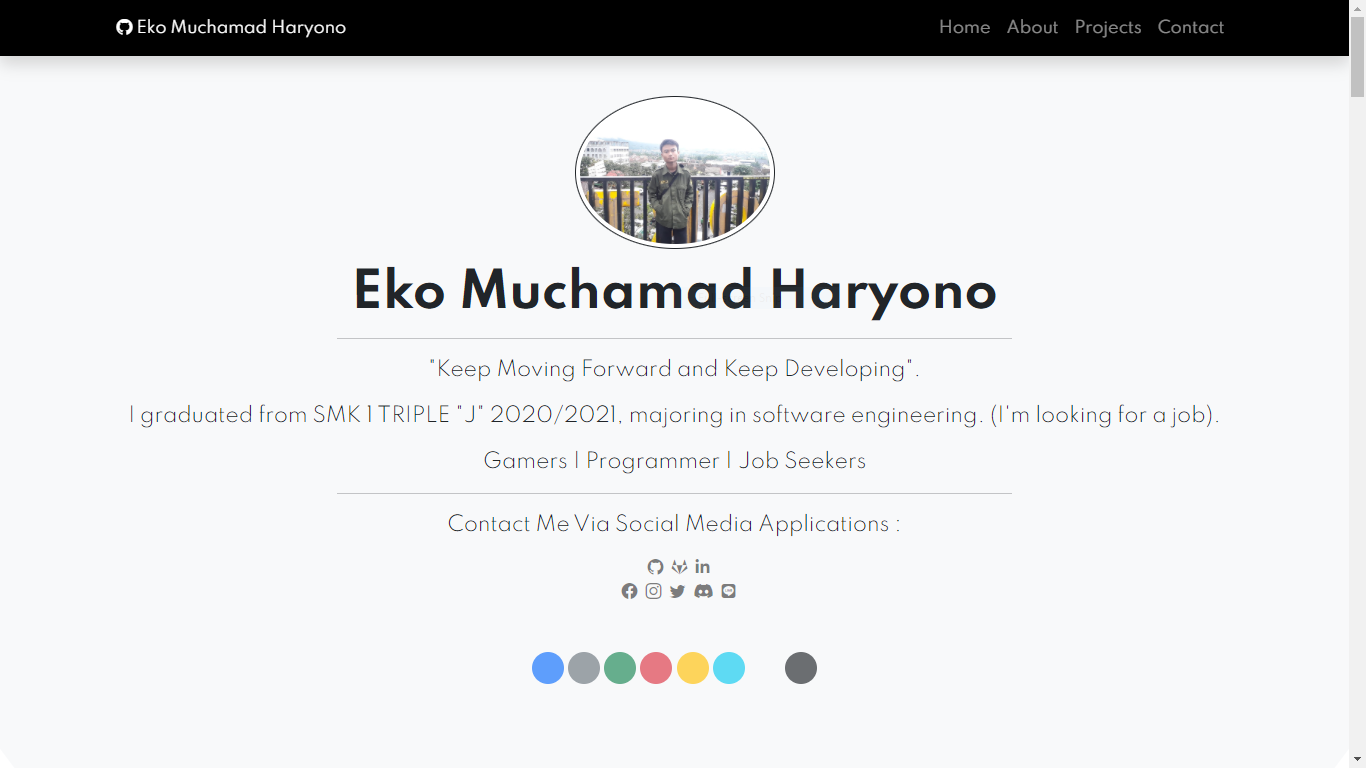
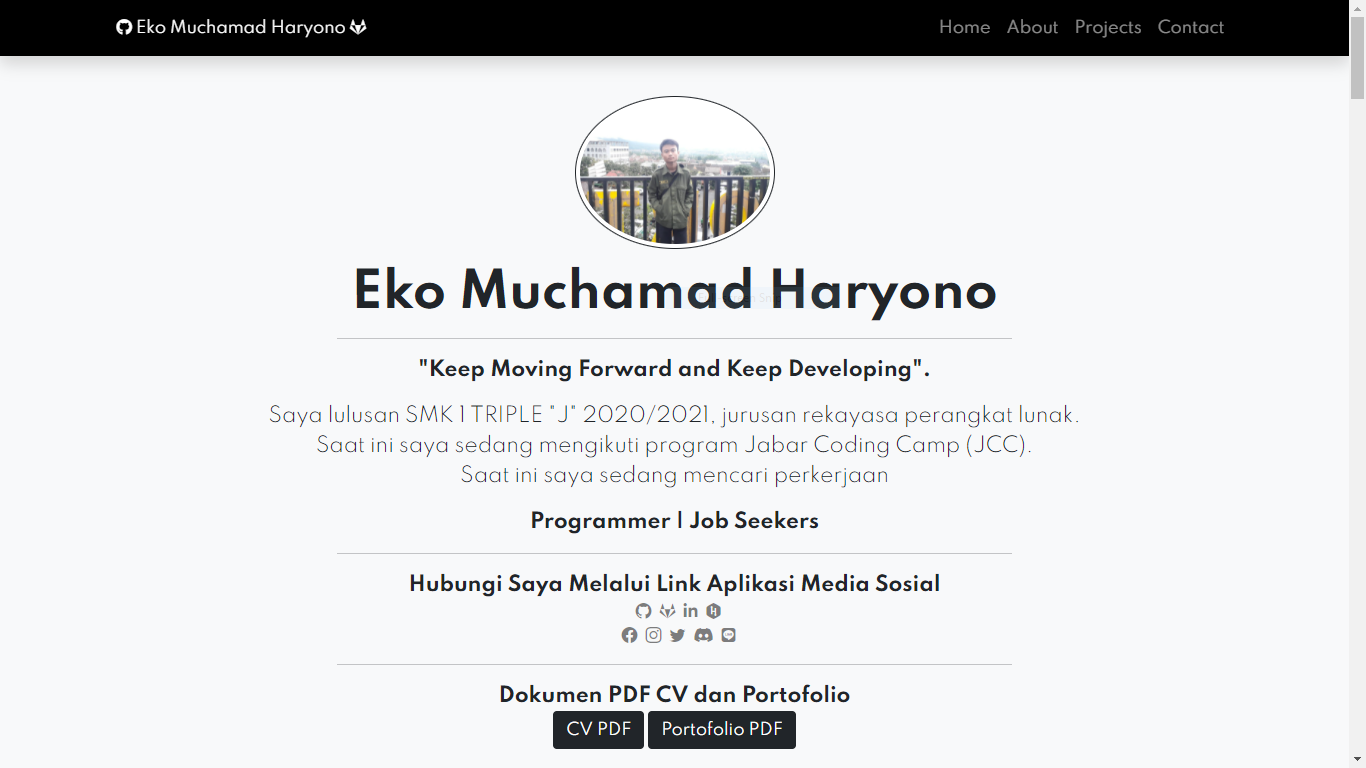
memperbarui readme.md dan menambahkan url tambahan

diff --git a/index.html b/index.html
@@ -763,9 +763,13 @@
                 </li>
             </ul>
             <div class="h6 text-center text-white pt-5">URL Tambahan :</div>
-            <div class="text-center text-white"><a href="https://projects.co.id/public/browse_users/view/43aa22/ekomh29"
-                    class="mb-3 me-2 mb-md-0
-                    text-white text-decoration-none lh-1" target="_blank">Project.co.id</a>
+            <div class="text-center text-white">
+                <a href="https://projects.co.id/public/browse_users/view/43aa22/ekomh29" class="mb-3 me-2 mb-md-0
+                    text-white text-decoration-none lh-1" target="_blank">Project.co.id
+                </a>
+                <a href="https://www.upwork.com/freelancers/~01c1004cca93ef9918" class="mb-3 me-2 mb-md-0
+                    text-white text-decoration-none lh-1" target="_blank">Upwork
+                </a>
             </div>
         </footer>
     </div>
